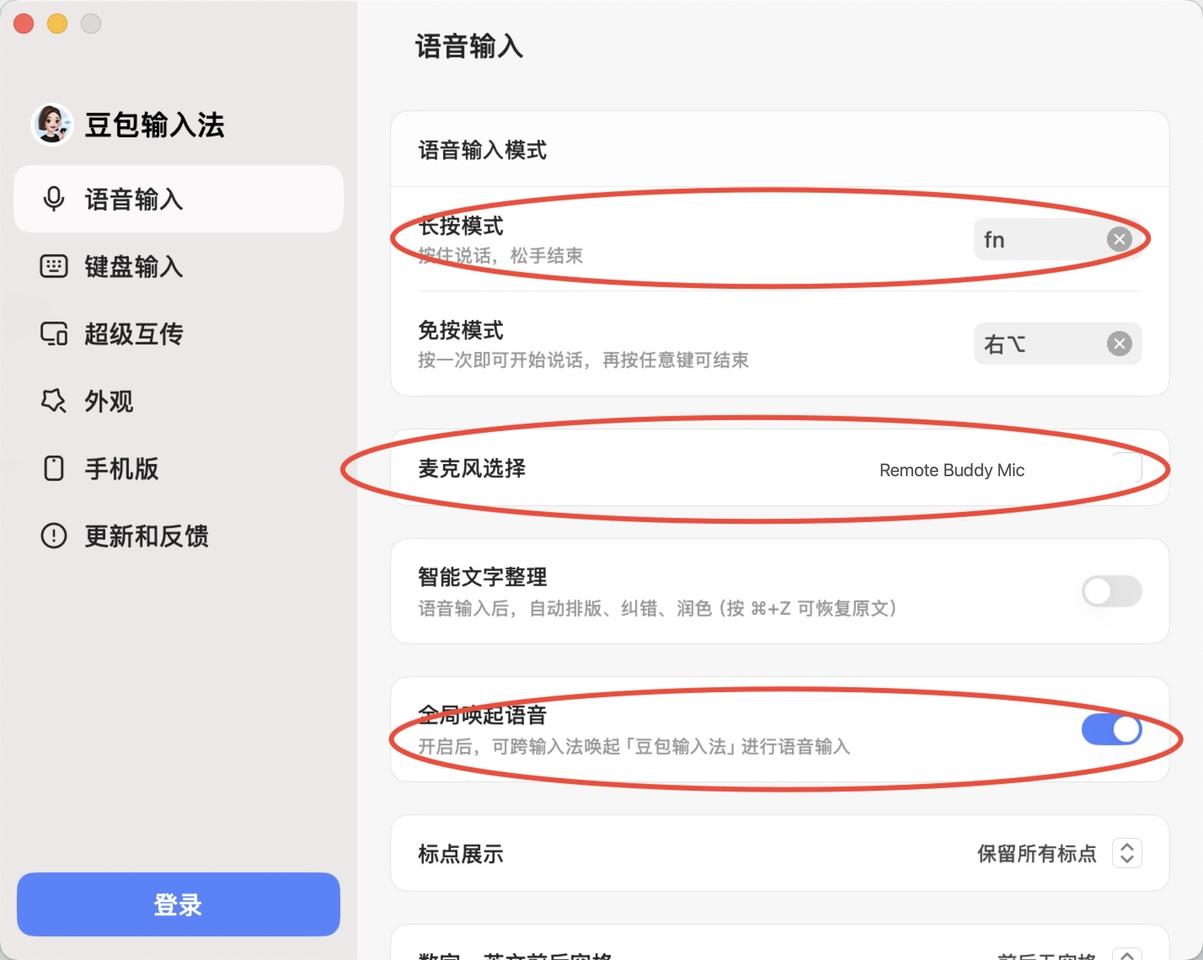
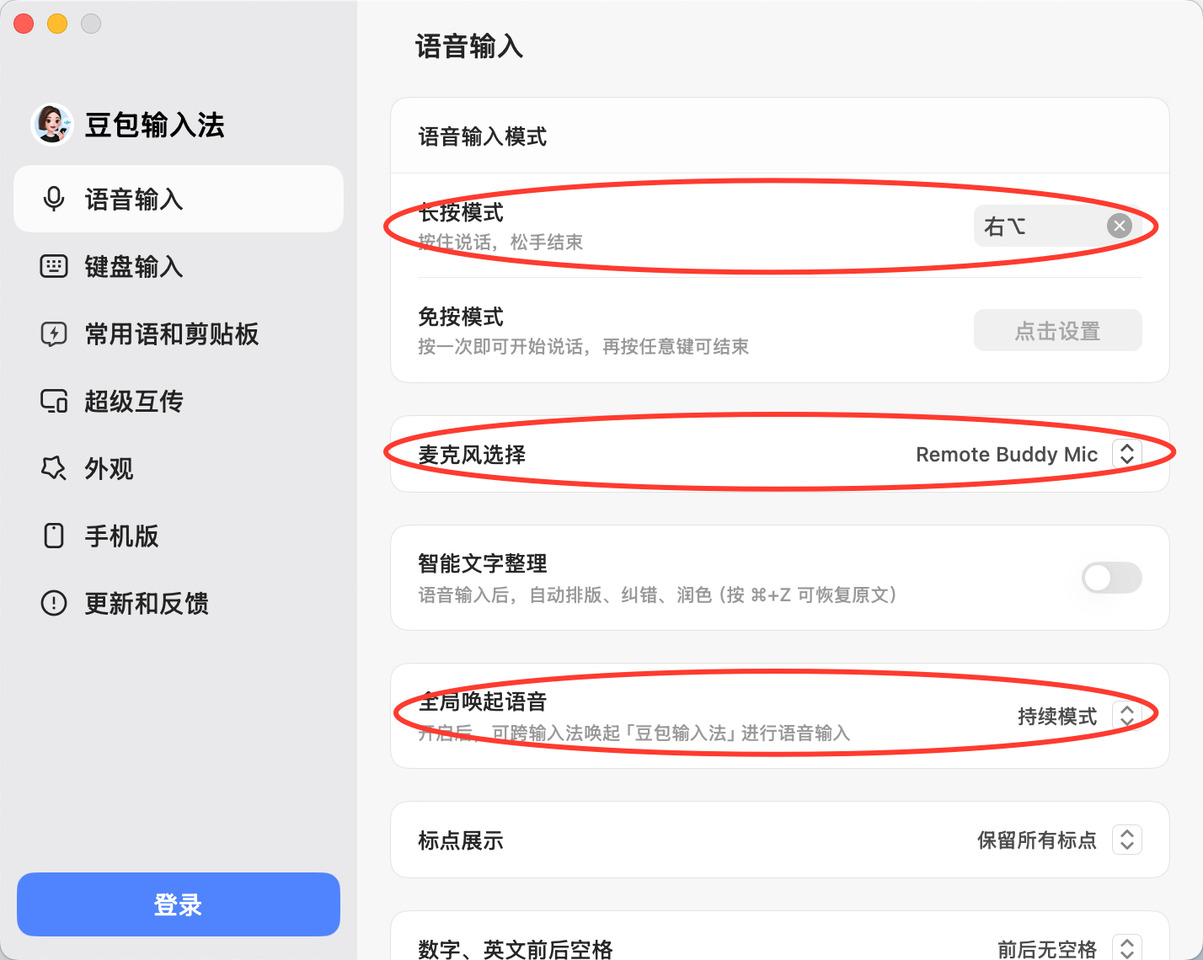
chore(assets): update Doubao and WeType onboarding screenshots (#203)

diff --git a/Tests/RemoteBuddyTests/ProductBoundaryTests.swift b/Tests/RemoteBuddyTests/ProductBoundaryTests.swift
@@ -10,12 +10,14 @@ struct ProductBoundaryTests {
             .deletingLastPathComponent().deletingLastPathComponent().appendingPathComponent("Resources")
         let bundle = try #require(Bundle(path: resources.path))
         let paired = [
-            "doubao-menu", "doubao-settings",
-            "weixin-input-menu", "weixin-input-settings",
             "bageshuo-menu", "bageshuo-settings", "bageshuo-input-microphone",
         ]
-        let microphone = ["doubao-input-microphone", "weixin-input-microphone", "voicebuddy-setting-fn", "voicebuddy-setting-mic"]
-        for name in paired + microphone {
+        let lightOnly = [
+            "doubao-menu", "doubao-settings", "doubao-input-microphone",
+            "weixin-input-menu", "weixin-input-settings", "weixin-input-microphone",
+            "voicebuddy-setting-fn", "voicebuddy-setting-mic",
+        ]
+        for name in paired + lightOnly {
             let url = try #require(RemoteBuddyResourceBundle.onboardingImageURL(named: name, isDark: false, in: bundle))
             #expect(url.lastPathComponent == "\(name)-light.jpg")
             let image = try #require(NSImage(contentsOf: url))

diff --git a/scripts/verify-onboarding-resources.py b/scripts/verify-onboarding-resources.py
@@ -105,7 +105,12 @@ for name in sorted(names):
     files.append(light)
     dark = image_path(name, 'dark')
     # New local captures are light only; the view falls back to that real capture.
-    if dark is not None or name not in {'doubao-input-microphone', 'weixin-input-microphone', 'voicebuddy-setting-fn', 'voicebuddy-setting-mic', 'macos-dictation-enable', 'macos-dictation-shortcut', 'macos-dictation-microphone'}:
+    if dark is not None or name not in {
+        'doubao-menu', 'doubao-settings', 'doubao-input-microphone',
+        'weixin-input-menu', 'weixin-input-settings', 'weixin-input-microphone',
+        'voicebuddy-setting-fn', 'voicebuddy-setting-mic',
+        'macos-dictation-enable', 'macos-dictation-shortcut', 'macos-dictation-microphone',
+    }:
         assert dark is not None, f'Missing dark screenshot: {name}'
         files.append(dark)
 # Product catalog and button-mapping resources are required even while adapters remain planned.
